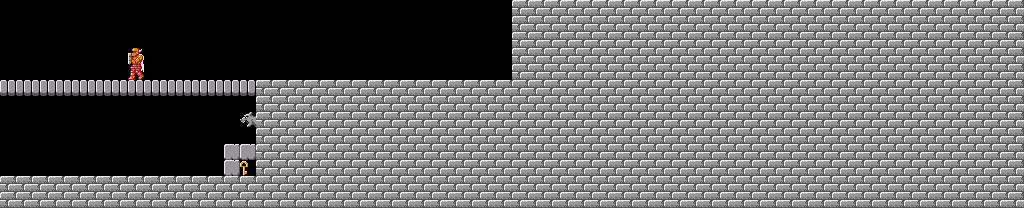
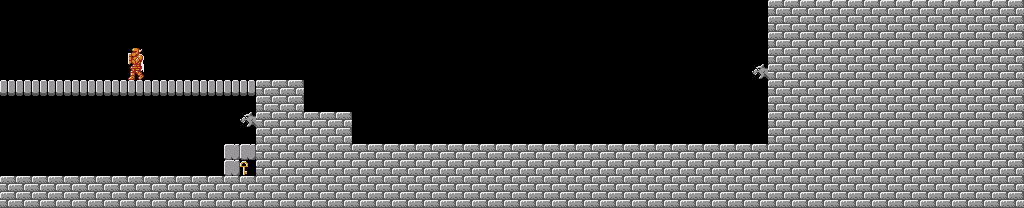
4.4 Beta 15

Changed region(s): [[0.2812, 0.0, 0.75, 0.6923]]

diff --git a/index.html b/index.html
@@ -2770,9 +2770,9 @@ OR
       
     </div>
     <div class="room RoomGroup-V4_4 Palace-GreatPalace ExitType-SE_L  ">
-      <img class="room-img" src="rooms/island_adventure_pillar_room.png" loading="lazy" />
+      <img class="room-img" src="rooms/island_adventure_pillar_room_v2.png" loading="lazy" />
       <p>
-        <span class="room-name">island adventure pillar room</span>
+        <span class="room-name">island adventure pillar room v2</span>
         <span class="room-author">by miralupa</span>
       </p>
       
@@ -2871,7 +2871,9 @@ OR
       </p>
       
       <p class="room-connections">Connections: &#8678; &#8680; &#8675; </p>
-      
+      <p class="room-requirements">Requirements:<img class="requirement-img" src="requirements/fairy.png"/>
+</p>
+
     </div>
     <div class="room RoomGroup-V4_4 Palace-RegularPalace ExitType-HORIZONTAL_PASSTHROUGH  Tag-Expert">
       <img class="room-img" src="rooms/z2oot_modified_fire_temple_platforming_room.png" loading="lazy" />
@@ -3491,7 +3493,11 @@ OR
       </p>
       
       <p class="room-connections">Connections: &#8678; &#8680; &#8675; </p>
-      
+      <p class="room-requirements">Requirements:<img class="requirement-img" src="requirements/jump.png"/>
+OR
+<img class="requirement-img" src="requirements/fairy.png"/>
+</p>
+
     </div>
     <div class="room RoomGroup-V4_4 Palace-RegularPalace ExitType-T RoomType-DropZone ">
       <img class="room-img" src="rooms/aaron_jam_4_4_P4_M26.png" loading="lazy" />
